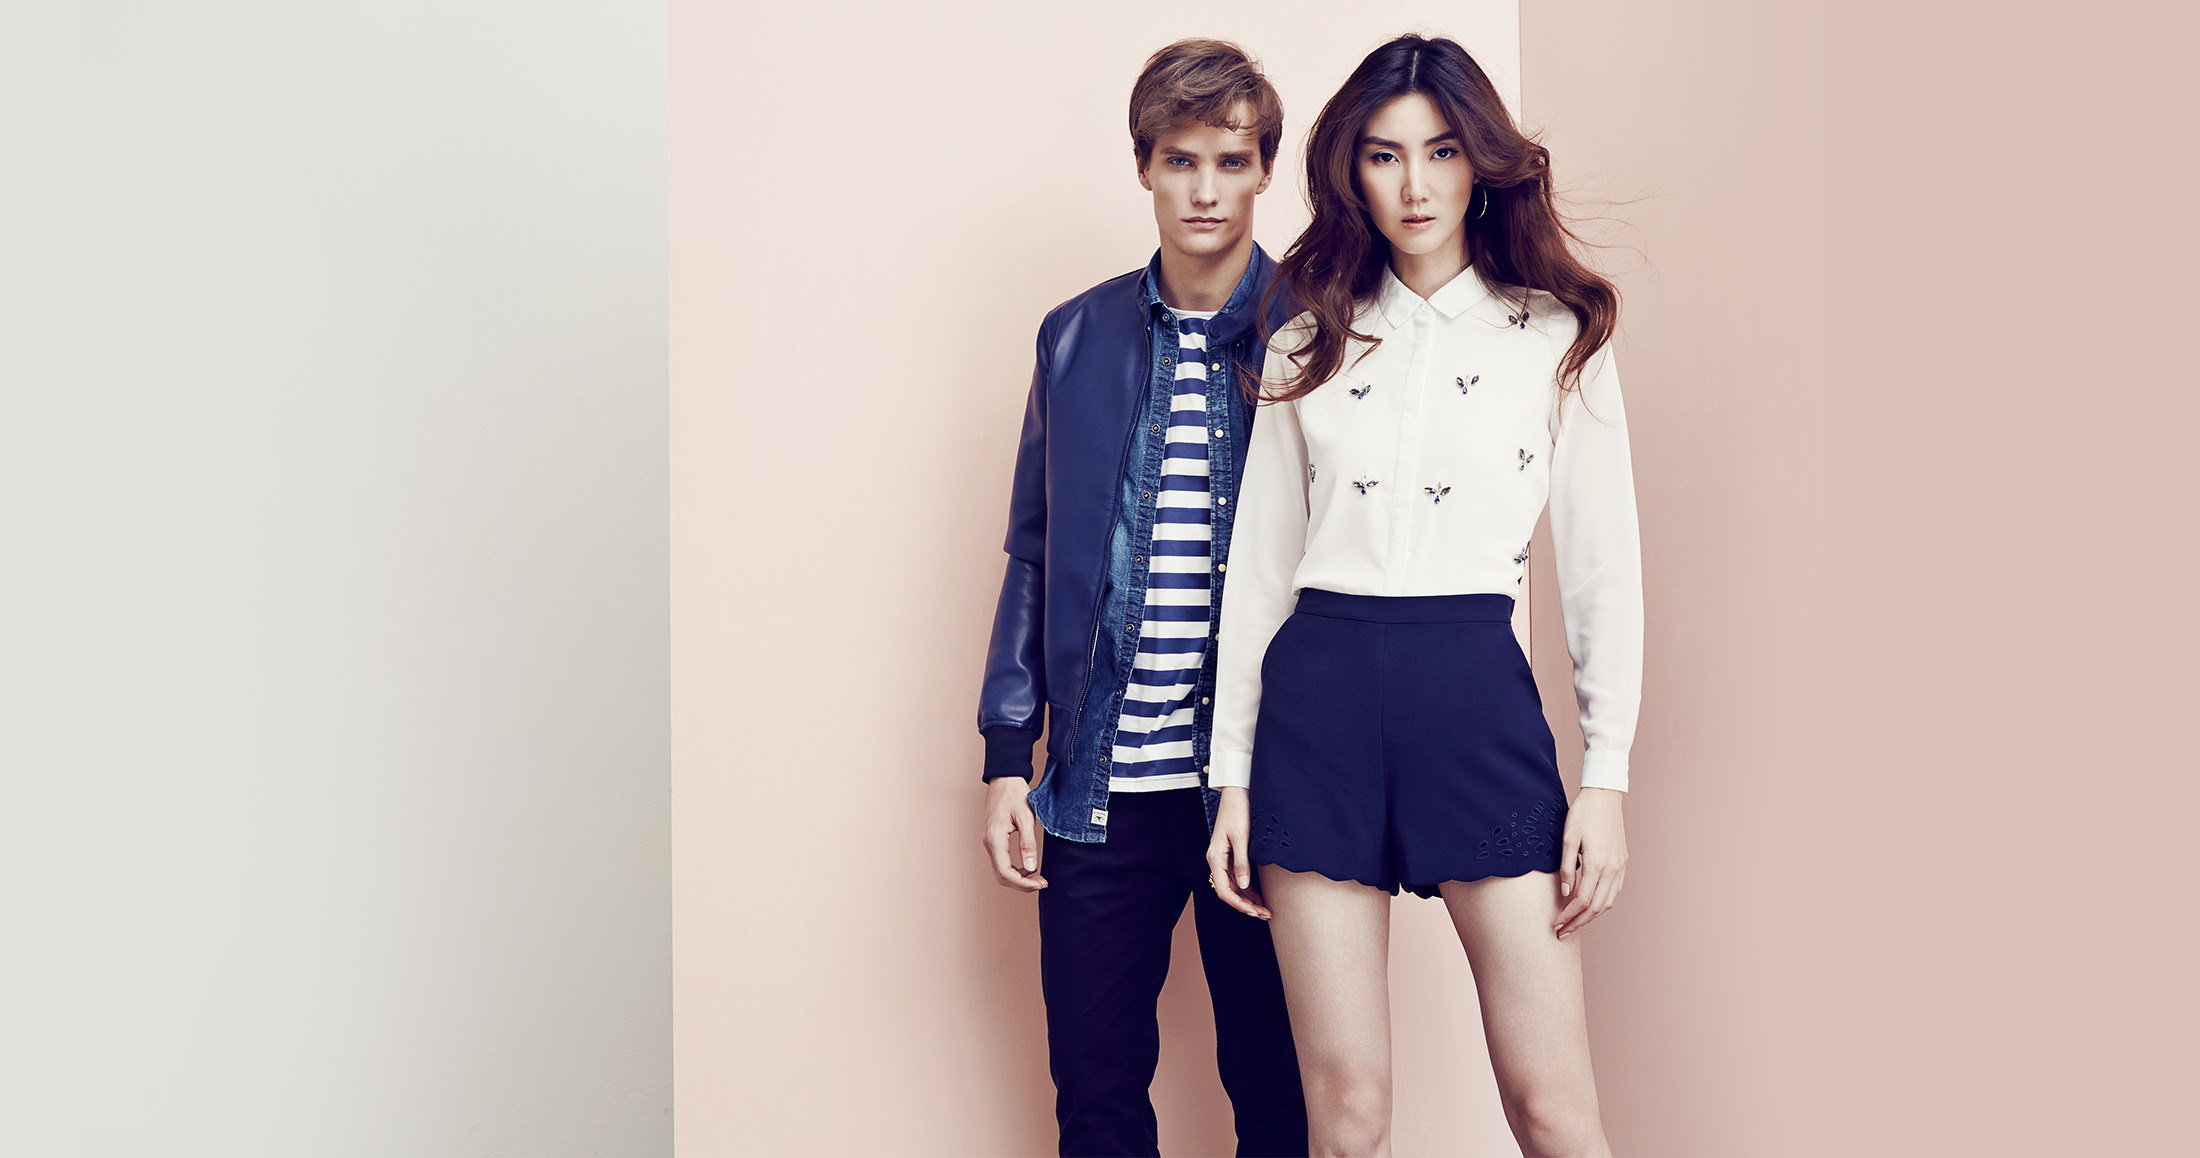
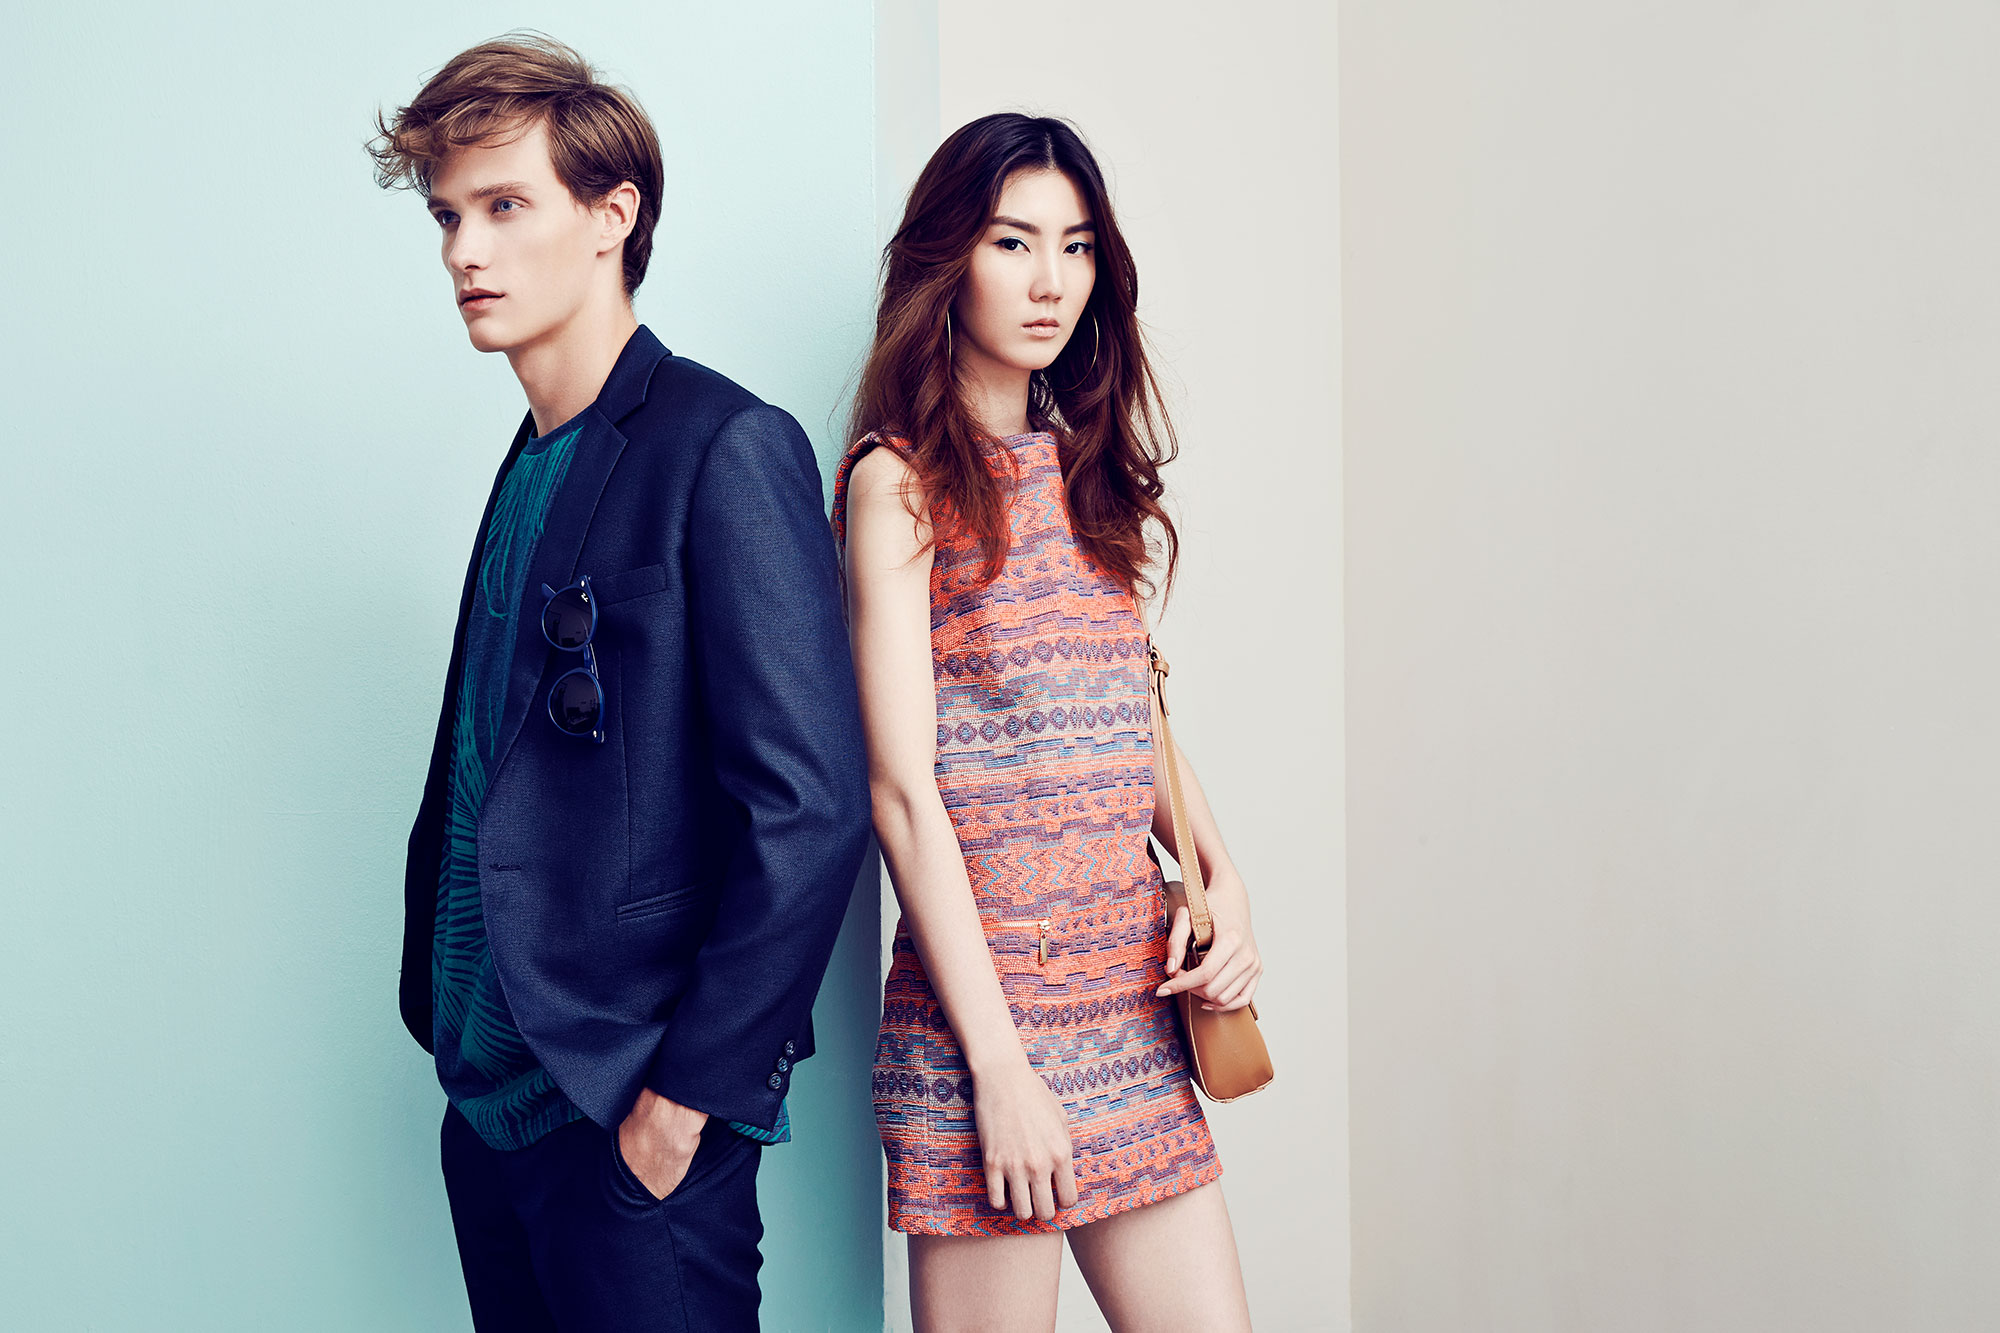
adding mission statement and changing hero image

diff --git a/src/index.html b/src/index.html
@@ -8,9 +8,9 @@ area: homepage
         <h1 class="page-heading man">The Zalorian's styleguide to the universe</h1>
     </section>
 
-    <section class="quick-nav pal">
-        <h2 class="fss txtUpper txtCenter man">Jump to</h2>
-        <nav class="quick-nav__box quick-nav__developers mbm ui-grid ">
+    <section class="quick-nav pal mvxl grid">
+        <h2 class="grid__col grid__col--full fss txtUpper txtCenter man">Jump to</h2>
+        <nav class="grid__col grid__col--thirds quick-nav__box quick-nav__developers mbm ui-grid ">
             <a href="#">
                 <figure class="quick-nav__icon ui-inlineBlock vMid">
                     <svg class="svg-asset"><use xlink:href="#rocket" /></svg>
@@ -19,7 +19,7 @@ area: homepage
             </a>
         </nav>
 
-        <nav class="quick-nav__box quick-nav__marketing mbm ui-grid ">
+        <nav class="grid__col grid__col--thirds quick-nav__box quick-nav__marketing mbm ui-grid ">
             <a href="#">
                 <figure class="quick-nav__icon ui-inlineBlock vMid">
                     <svg class="svg-asset"><use xlink:href="#hi" /></svg>
@@ -28,7 +28,7 @@ area: homepage
             </a>
         </nav>
 
-        <nav class="quick-nav__box quick-nav__press mbm ui-grid ">
+        <nav class="grid__col grid__col--thirds quick-nav__box quick-nav__press mbm ui-grid ">
             <a href="#press">
                 <figure class="quick-nav__icon ui-inlineBlock vMid">
                     <svg class="svg-asset"><use xlink:href="#earth" /></svg>
@@ -36,5 +36,16 @@ area: homepage
                 <span class="ui-inlineBlock vMid">Press Kits</span>
             </a>
         </nav>
+    </section>
+
+    <section name="mission-statement" class="mission-statement paxl grid">
+        <div class="grid__col grid__col--twos">
+            <img class="has-border" src="{{ "/assets/images/mission-statement-visual.jpg" | prepend: site.baseurl }}" alt="">
+        </div>
+
+        <div class="grid__col grid__col--twos mission-statement__content">
+            <h1>It is our shared responsibility to protect our brand.</h1>
+            <p>Our visual identity is an expression and reflection of our brand. Logos, imagery and colours reinforce the memory by providing a visual “imprint” for customers. Establishing an indentifiable visual identity builds brand loyalty and awareness, and sets us apart from competitors.</p>
+        </div>
     </section>
 </div>

diff --git a/src/assets/_scss/local/pages/_home.scss b/src/assets/_scss/local/pages/_home.scss
@@ -16,8 +16,6 @@ body.homepage .page-content__wrapper.pal {
     h1 {
         color: $colorLightPrimary;
         text-shadow: 0 1px 1px rgba(black, .3);
-        margin-left: 20%;
-        background-color: rgba(black, .3);
         padding: 10px;
         padding-top: 5px;
 
@@ -40,18 +38,21 @@ body.homepage .page-content__wrapper.pal {
     }
 
     @include media($break-large) {
-        padding-top: 20%;
+        padding-top: 15%;
 
         h1 {
             font-size: 4em;
             margin-left: 7%;
         }
     }
+
+    @include media-height(800px) {
+        padding-top: 25%;
+    }
 }
 
 // Quick nav
 .quick-nav {
-    @include clearfix;
     padding-top: $spaceXLarge;
 
     h2 {
@@ -65,8 +66,6 @@ body.homepage .page-content__wrapper.pal {
         span { color: $colorHighlightPositive }
 
         @include media($break-large) {
-            width: 33%;
-            float: left;
             text-align: center;
             padding: $spaceLarge;
             box-sizing: border-box;
@@ -106,5 +105,21 @@ body.homepage .page-content__wrapper.pal {
 
     span {
         font-size: $fontsizeXL;
+    }
+}
+
+// Mission statement
+.mission-statement {
+    background-color: $colorDarkTertiary;
+    color: $colorLightPrimary;
+
+    .mission-statement__content {
+        h1 { margin: $spaceXLarge 0 }
+
+        @include media($break-big) {
+            padding-left: $spaceXLarge;
+
+            h1 { font-size: 3em }
+        }
     }
 }

diff --git a/src/assets/_scss/local/_shared.scss b/src/assets/_scss/local/_shared.scss
@@ -22,3 +22,49 @@ body {
 .page-content {
     margin-bottom: 100px;
 }
+
+/* Image with think border */
+img {
+    &.has-border {
+        border: 8px solid $colorLightPrimary;
+        box-sizing: border-box;
+    }
+}
+
+//-------------------------------------
+// Tiny responsive grid
+//
+// not using global/_ui.scss because that's not yet responsive
+//-------------------------------------
+
+.grid {
+    @include clearfix;
+}
+
+.grid__col {
+    float: left;
+    box-sizing: border-box;
+
+    img { max-width: 100% }
+
+    &.grid__col--narrow {
+        width: 100%;
+
+        @include media($break-medium) { width: 50% }
+        @include media($break-big) { width: 25% }
+    }
+
+    &.grid__col--thirds {
+        width: 100%;
+
+        @include media($break-big) { width: 33% }
+    }
+
+    &.grid__col--twos {
+        width: 100%;
+
+        @include media($break-big) { width: 50% }
+    }
+
+    &.grid__col--full { width: 100% }
+}
